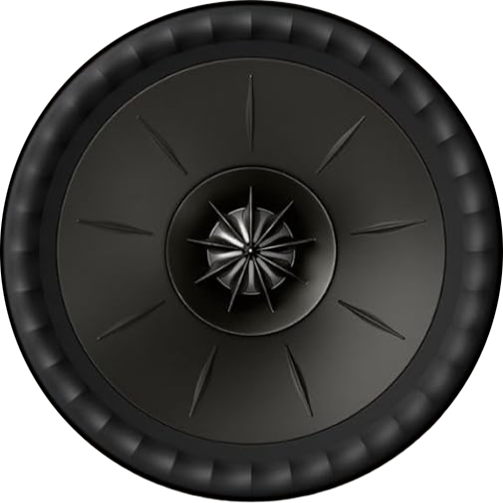
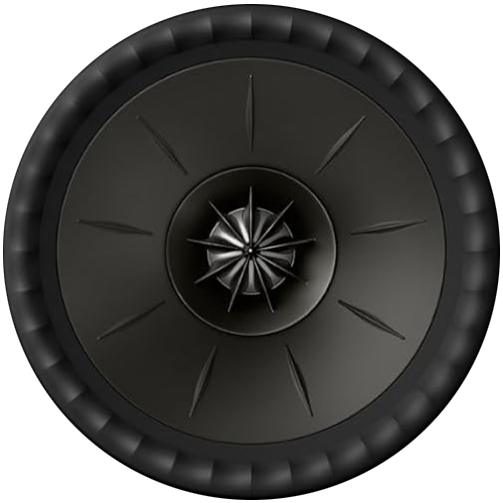
Add configuration for permissions and startup registry management

diff --git a/main.py b/main.py
@@ -3,6 +3,7 @@ KEF LSX II Controller
 GUI application built on top of pykefcontrol.
 """
 
+import os
 import sys
 import json
 import time
@@ -10,6 +11,7 @@ import queue
 import threading
 import ctypes
 import ctypes.wintypes
+import winreg
 import urllib.request
 import concurrent.futures
 from io import BytesIO
@@ -64,12 +66,24 @@ def _hex_to_rgb(hex_color):
 
 POLL_INTERVAL_S = 1    # seconds between poll cycles
 
-# When frozen by PyInstaller --onefile, __file__ points to a temp extract dir
-# that's wiped on exit. Use the .exe location so config.json persists.
-if getattr(sys, "frozen", False):
-    CONFIG_PATH = Path(sys.executable).parent / "config.json"
-else:
-    CONFIG_PATH = Path(__file__).parent / "config.json"
+# Store config in %APPDATA%\KefLSXController so it works even when the .exe
+# lives in a write-protected location like C:\Program Files\.
+# Fall back to the .exe / source directory if APPDATA is unavailable.
+def _resolve_config_path():
+    appdata = os.environ.get("APPDATA")
+    if appdata:
+        cfg_dir = Path(appdata) / "KefLSXController"
+        try:
+            cfg_dir.mkdir(parents=True, exist_ok=True)
+            return cfg_dir / "config.json"
+        except Exception:
+            pass
+    if getattr(sys, "frozen", False):
+        return Path(sys.executable).parent / "config.json"
+    return Path(__file__).parent / "config.json"
+
+
+CONFIG_PATH = _resolve_config_path()
 
 
 def _resource_path(rel):
@@ -114,6 +128,40 @@ class _NOTIFYICONIDENTIFIER(ctypes.Structure):
 
 
 # ---------------------------------------------------------------------------
+# Windows startup registry helpers
+# ---------------------------------------------------------------------------
+_STARTUP_REG_KEY  = r"Software\Microsoft\Windows\CurrentVersion\Run"
+_STARTUP_REG_NAME = "KEF LSX Controller"
+
+
+def _startup_exe_path():
+    return f'"{sys.executable}"'
+
+
+def _is_startup_enabled():
+    try:
+        with winreg.OpenKey(winreg.HKEY_CURRENT_USER, _STARTUP_REG_KEY,
+                            0, winreg.KEY_READ) as key:
+            val, _ = winreg.QueryValueEx(key, _STARTUP_REG_NAME)
+            return val == _startup_exe_path()
+    except Exception:
+        return False
+
+
+def _set_startup(enabled):
+    try:
+        with winreg.OpenKey(winreg.HKEY_CURRENT_USER, _STARTUP_REG_KEY,
+                            0, winreg.KEY_WRITE) as key:
+            if enabled:
+                winreg.SetValueEx(key, _STARTUP_REG_NAME, 0,
+                                  winreg.REG_SZ, _startup_exe_path())
+            else:
+                winreg.DeleteValue(key, _STARTUP_REG_NAME)
+    except Exception:
+        pass
+
+
+# ---------------------------------------------------------------------------
 # Helper widget
 # ---------------------------------------------------------------------------
 def _separator(parent):
@@ -127,7 +175,7 @@ def _separator(parent):
 # ---------------------------------------------------------------------------
 class KefApp(ctk.CTk):
 
-    def __init__(self):
+    def __init__(self, show_event=None):
         # DPI-aware BEFORE any window creation, otherwise the mouse hook
         # coordinates won't match what GetWindowRect returns.
         try:
@@ -178,6 +226,11 @@ class KefApp(ctk.CTk):
 
         self._hook      = None
         self._hook_proc = None
+
+        if show_event:
+            threading.Thread(
+                target=self._wait_show_event, args=(show_event,),
+                daemon=True).start()
 
         self._build_ui()
         has_config = self._load_config()
@@ -539,6 +592,8 @@ class KefApp(ctk.CTk):
                     self._status_lbl.configure(text=f"Err: {data[:28]}")
                 elif kind == "scroll_volume":
                     self._scroll_volume(data)
+                elif kind == "show":
+                    self._show_main_window()
         except Exception:
             pass
         self.after(200, self._drain_queue)
@@ -663,6 +718,8 @@ class KefApp(ctk.CTk):
         pwr = state.get("speaker_status")
         if pwr:
             self._update_power_status(pwr)
+            if pwr == PWR_STANDBY:
+                self._update_tray_icon(None)  # grey when off
 
         # Player state (playing / paused / stopped / buffering …)
         player_state = state.get("status")
@@ -822,6 +879,17 @@ class KefApp(ctk.CTk):
         # available -> Fatal Python error.
         threading.Thread(target=self._hook_thread_proc, daemon=True).start()
 
+    def _wait_show_event(self, event_handle):
+        kernel32 = ctypes.windll.kernel32
+        kernel32.WaitForSingleObject.argtypes = [
+            ctypes.c_void_p, ctypes.wintypes.DWORD]
+        kernel32.WaitForSingleObject.restype = ctypes.wintypes.DWORD
+        INFINITE     = 0xFFFFFFFF
+        WAIT_OBJECT_0 = 0x00000000
+        while True:
+            if kernel32.WaitForSingleObject(event_handle, INFINITE) == WAIT_OBJECT_0:
+                self._ui_q.put(("show", None))
+
     def _hook_thread_proc(self):
         user32  = ctypes.windll.user32
         shell32 = ctypes.windll.shell32
@@ -946,6 +1014,12 @@ class KefApp(ctk.CTk):
             pystray.MenuItem("USB", self._tray_activate_usb, default=True),
             pystray.MenuItem("Open", self._tray_show_main),
             pystray.Menu.SEPARATOR,
+            pystray.MenuItem(
+                "Run with Windows",
+                self._tray_toggle_startup,
+                checked=lambda _: _is_startup_enabled(),
+            ),
+            pystray.Menu.SEPARATOR,
             pystray.MenuItem("Quit", self._tray_quit),
         )
         self._tray_icon = pystray.Icon(
@@ -957,6 +1031,9 @@ class KefApp(ctk.CTk):
 
     def _tray_show_main(self, _icon, _item):
         self.after(0, self._show_main_window)
+
+    def _tray_toggle_startup(self, *_):
+        _set_startup(not _is_startup_enabled())
 
     def _tray_quit(self, _icon, _item):
         self.after(0, self._quit_app)
@@ -984,8 +1061,57 @@ class KefApp(ctk.CTk):
 
 
 # ---------------------------------------------------------------------------
+# Single-instance guard (named Windows mutex + named event)
+# ---------------------------------------------------------------------------
+_SINGLE_INSTANCE_MUTEX = "Local\\KEF.LSX.Controller.SingleInstance"
+_SINGLE_INSTANCE_EVENT = "Local\\KEF.LSX.Controller.ShowWindow"
+
+_EVENT_MODIFY_STATE = 0x0002
+
+
+def _acquire_single_instance():
+    """Returns the mutex handle if this is the first instance, else signals the
+    existing instance to show its window and returns None.
+
+    Keep the returned handle alive for the process lifetime.
+    """
+    ERROR_ALREADY_EXISTS = 183
+    kernel32 = ctypes.windll.kernel32
+    kernel32.CreateMutexW.argtypes = [
+        ctypes.c_void_p, ctypes.wintypes.BOOL, ctypes.c_wchar_p]
+    kernel32.CreateMutexW.restype = ctypes.c_void_p
+    handle = kernel32.CreateMutexW(None, False, _SINGLE_INSTANCE_MUTEX)
+    if not handle:
+        return None
+    if ctypes.GetLastError() == ERROR_ALREADY_EXISTS:
+        kernel32.CloseHandle(handle)
+        kernel32.OpenEventW.argtypes = [
+            ctypes.wintypes.DWORD, ctypes.wintypes.BOOL, ctypes.c_wchar_p]
+        kernel32.OpenEventW.restype = ctypes.c_void_p
+        ev = kernel32.OpenEventW(_EVENT_MODIFY_STATE, False, _SINGLE_INSTANCE_EVENT)
+        if ev:
+            kernel32.SetEvent(ev)
+            kernel32.CloseHandle(ev)
+        return None
+    return handle
+
+
+def _create_show_event():
+    """Creates the named auto-reset event the first instance listens on."""
+    kernel32 = ctypes.windll.kernel32
+    kernel32.CreateEventW.argtypes = [
+        ctypes.c_void_p, ctypes.wintypes.BOOL, ctypes.wintypes.BOOL, ctypes.c_wchar_p]
+    kernel32.CreateEventW.restype = ctypes.c_void_p
+    return kernel32.CreateEventW(None, False, False, _SINGLE_INSTANCE_EVENT)
+
+
+# ---------------------------------------------------------------------------
 # Entry point
 # ---------------------------------------------------------------------------
 if __name__ == "__main__":
-    app = KefApp()
+    _instance_handle = _acquire_single_instance()
+    if _instance_handle is None:
+        sys.exit(0)
+    _show_event = _create_show_event()
+    app = KefApp(show_event=_show_event)
     app.mainloop()